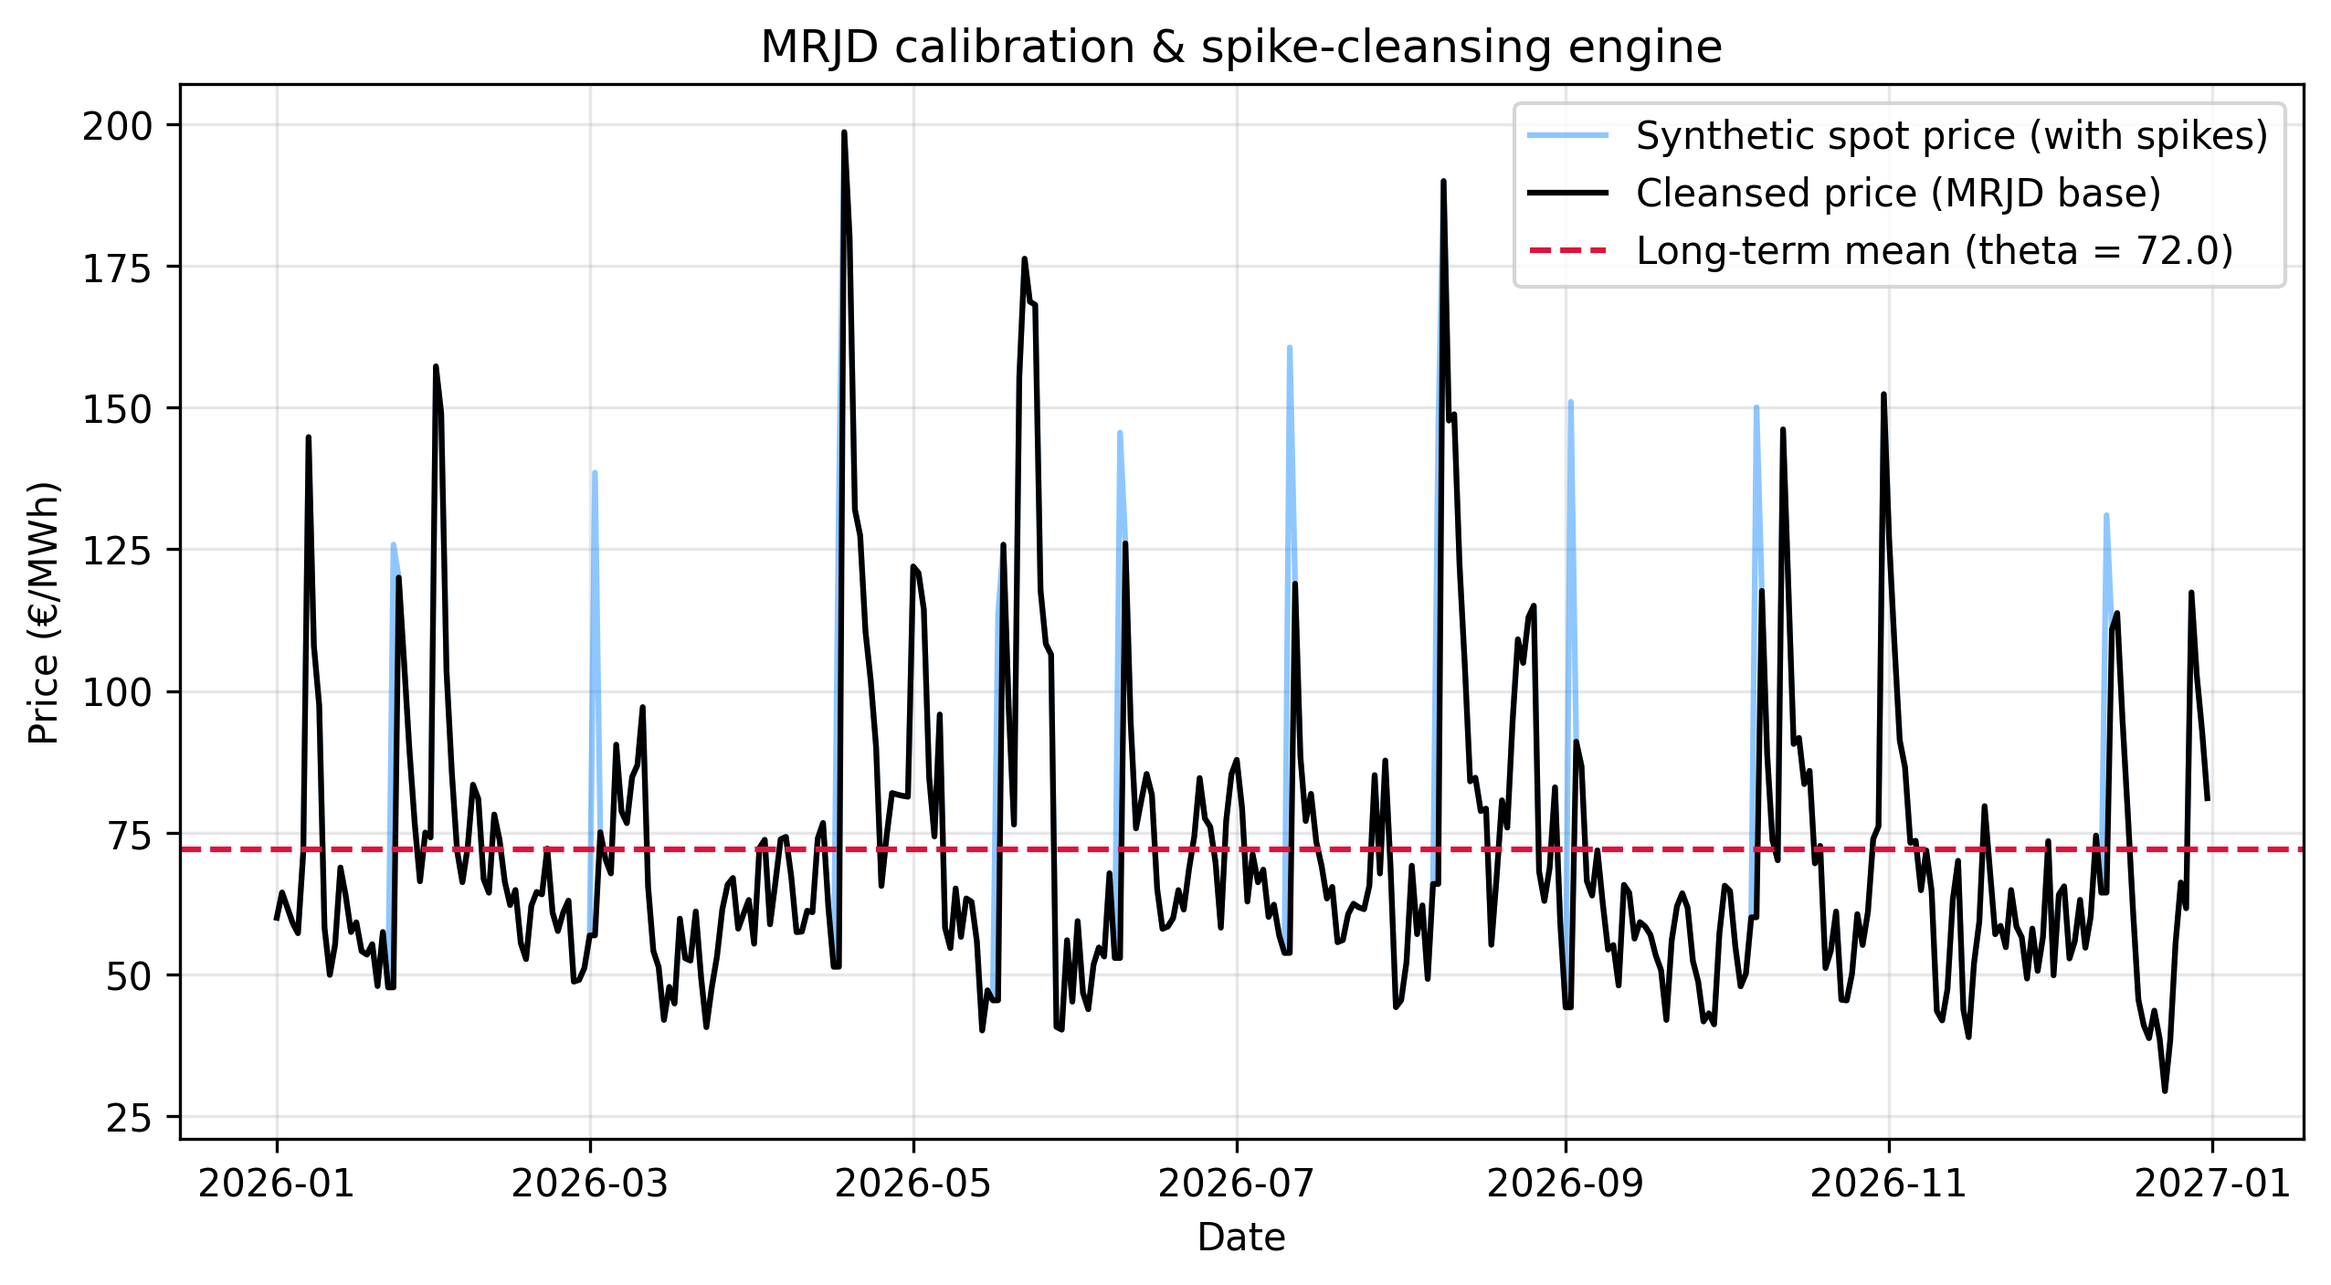
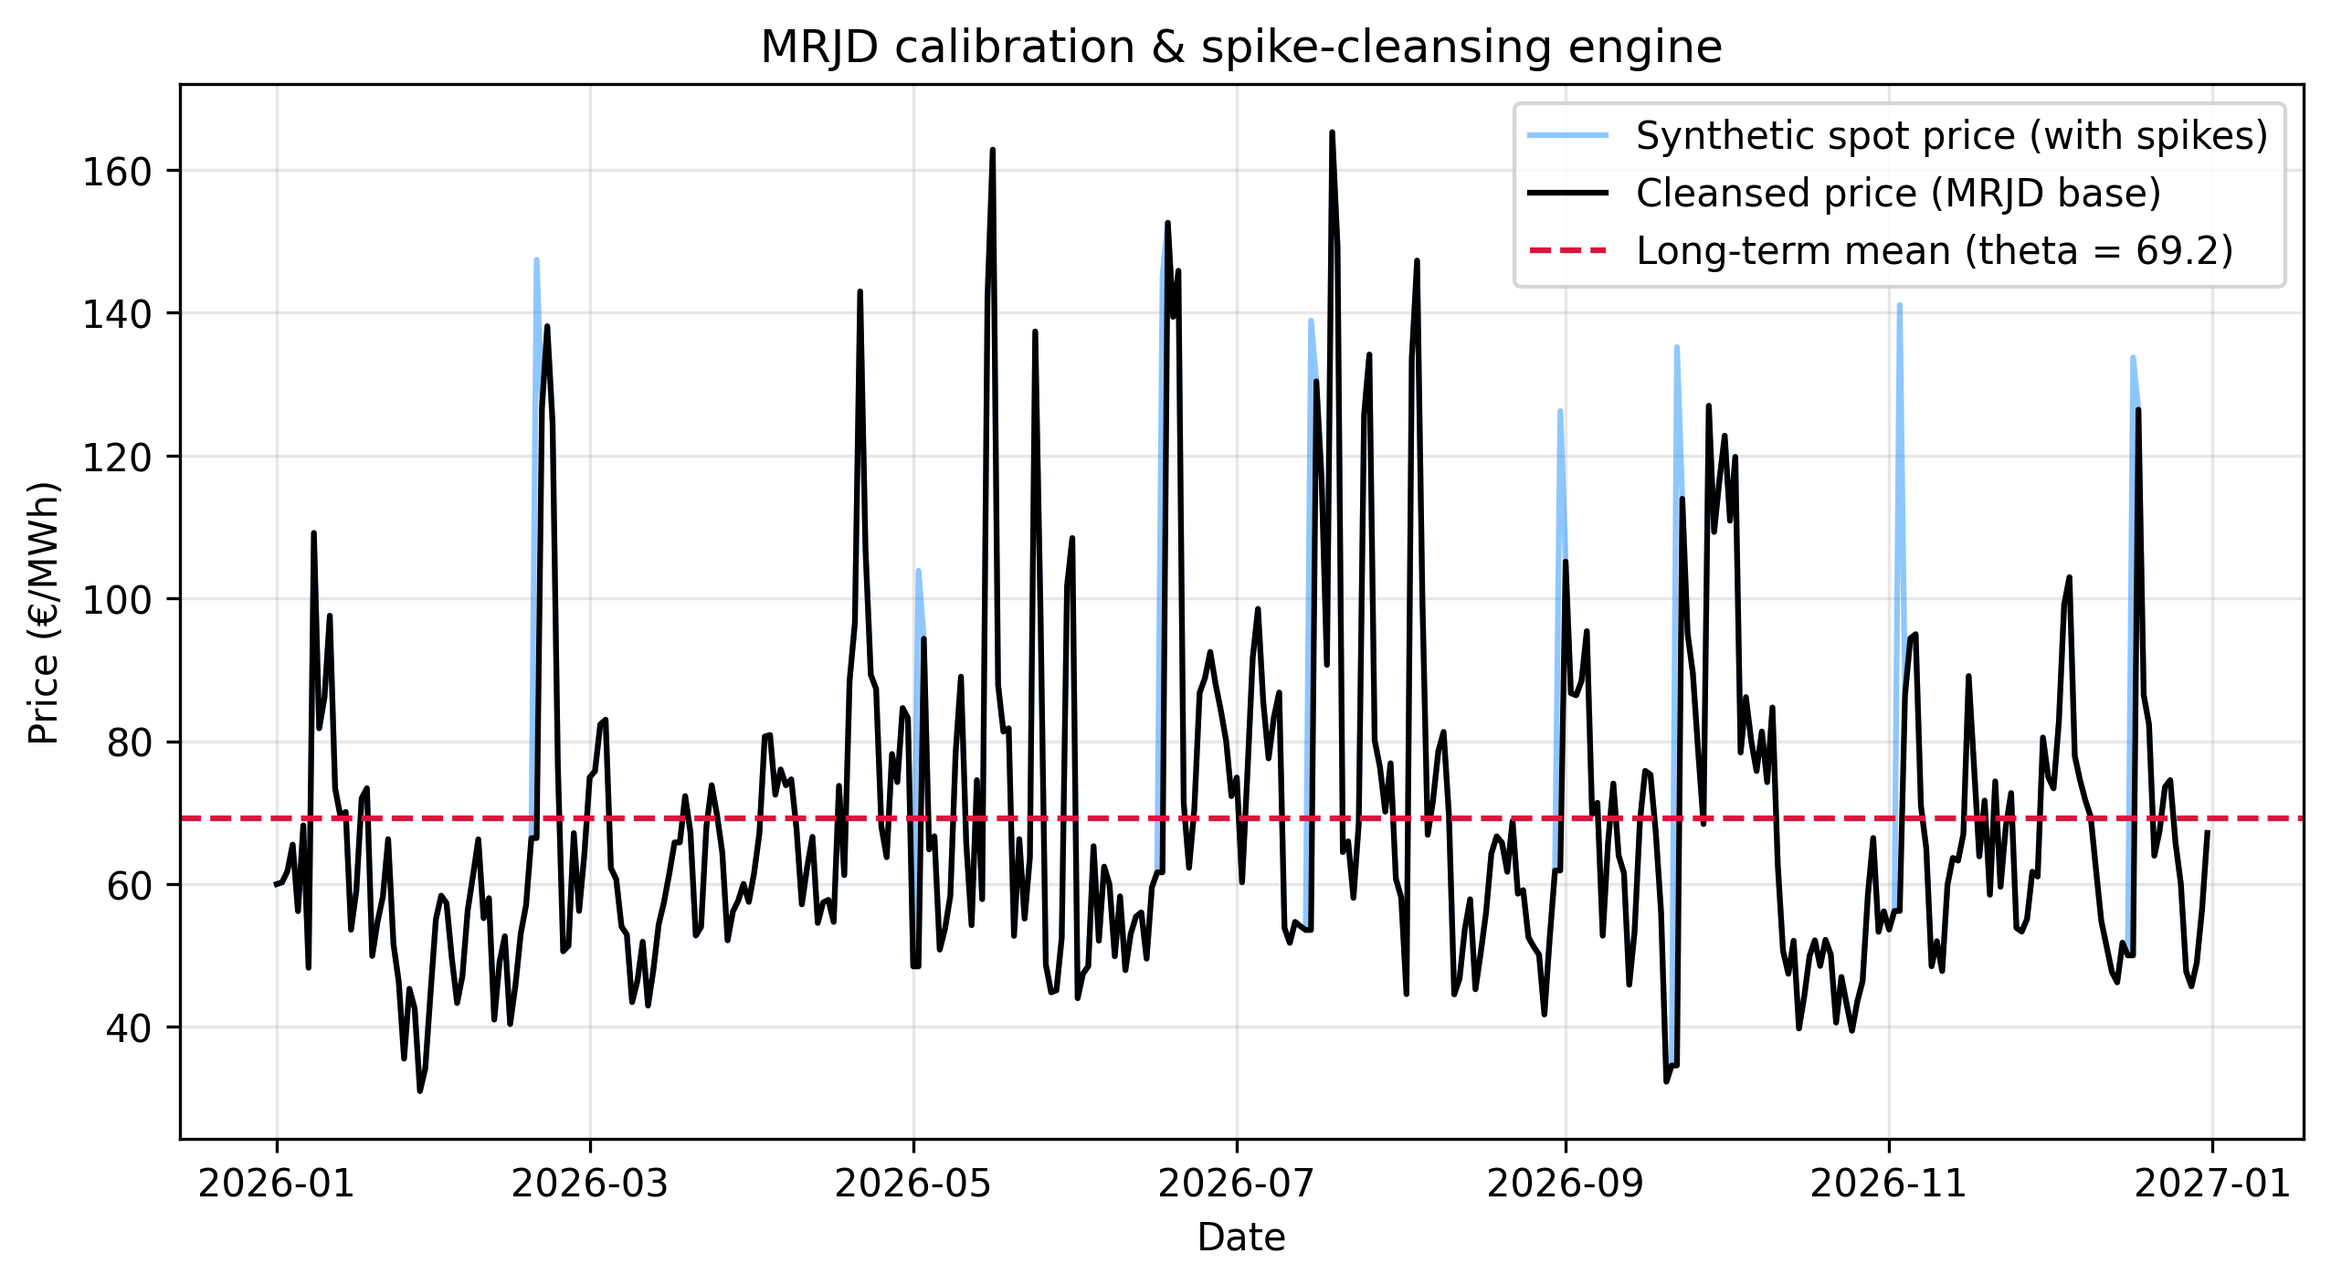
feat: no-arbitrage forward curve builder (cascade, seasonality, peak/off-peak)

diff --git a/src/forward_curve.py b/src/forward_curve.py
@@ -1,0 +1,244 @@
+"""
+forward_curve.py
+
+Build a monthly power forward curve from quoted market products using a
+no-arbitrage cascade, then split it into peak / off-peak.
+
+Why this exists
+---------------
+A power desk does not trade the spot — it trades forwards (months, quarters,
+calendar years). Those products are quoted at different granularities and must
+be mutually consistent by no-arbitrage: the (time-weighted) average of the
+finer contracts inside a period must equal the price of the coarser contract
+covering that period.
+
+    Cal-2026  =  average(Q1, Q2, Q3, Q4)      (weighted by days)
+    Q1-2026   =  average(Jan, Feb, Mar)        (weighted by days)
+
+This module takes quoted Months (front), Quarters, and the Calendar year and
+"cascades" them down to a full 12-month curve:
+  * directly quoted months are used as-is;
+  * an unquoted month inside a quoted quarter is backed out by no-arbitrage;
+  * a quarter with no quoted months is shaped into months by a seasonal profile,
+    constrained so the months average back to the quarter quote;
+  * the Cal quote is used as an independent no-arbitrage consistency check.
+
+Finally each monthly baseload price is split into peak and off-peak legs, kept
+consistent so the hour-weighted average returns the baseload.
+
+The resulting curve is the term structure the spot model should be anchored to:
+the flat long-term mean theta becomes a time-varying theta(t) = forward(t).
+"""
+
+import numpy as np
+import pandas as pd
+import matplotlib.pyplot as plt
+
+
+# =============================================================================
+# Market quotes (illustrative but realistic Cal-2026 baseload, EUR/MWh)
+# =============================================================================
+DELIVERY_YEAR = 2026
+
+QUOTES = {
+    "cal":      {"Cal-26": 82.0},
+    "quarters": {"Q1": 104.0, "Q2": 67.0, "Q3": 73.0, "Q4": 89.0},
+    "months":   {1: 112.0, 2: 103.0},          # front months quoted directly (Jan, Feb)
+}
+
+# Seasonal shape prior (winter-heavy, mild summer bump). Only used to distribute
+# quarters that have no directly quoted months; the cascade still forces the
+# quarter average to match the quote exactly, so the shape sets form, not level.
+SEASONAL_SHAPE = np.array([1.22, 1.16, 1.05, 0.92, 0.86, 0.88,
+                           0.95, 0.93, 0.94, 1.02, 1.10, 1.18])
+
+# Peak premium over baseload by month (higher in winter evenings)
+PEAK_PREMIUM = np.array([0.26, 0.24, 0.20, 0.15, 0.12, 0.12,
+                         0.14, 0.14, 0.16, 0.19, 0.23, 0.25])
+
+QUARTER_MONTHS = {"Q1": [1, 2, 3], "Q2": [4, 5, 6], "Q3": [7, 8, 9], "Q4": [10, 11, 12]}
+
+
+# =============================================================================
+# Calendar helpers
+# =============================================================================
+def month_days(year: int) -> np.ndarray:
+    """Number of calendar days in each month of `year` (length 12)."""
+    return np.array([(pd.Timestamp(year, m, 1) + pd.offsets.MonthEnd(0)).day
+                     for m in range(1, 13)])
+
+def month_business_days(year: int) -> np.ndarray:
+    """Business days per month (proxy for peak-day count)."""
+    out = []
+    for m in range(1, 13):
+        start = pd.Timestamp(year, m, 1)
+        end = start + pd.offsets.MonthEnd(0)
+        out.append(int(np.busday_count(start.date(), (end + pd.Timedelta(days=1)).date())))
+    return np.array(out)
+
+
+# =============================================================================
+# 1. No-arbitrage cascade  ->  monthly baseload curve
+# =============================================================================
+def build_baseload_curve(year: int = DELIVERY_YEAR) -> pd.DataFrame:
+    days = month_days(year)                       # weights for time-averaging
+    shape = SEASONAL_SHAPE / SEASONAL_SHAPE.mean()
+    fwd = np.full(12, np.nan)                      # monthly baseload forward
+
+    quoted_months = QUOTES["months"]
+    for m, price in quoted_months.items():
+        fwd[m - 1] = price                        # (a) use quoted months directly
+
+    # (b)+(c) cascade each quarter into its months, enforcing the quarter average
+    for q, price in QUOTES["quarters"].items():
+        months = QUARTER_MONTHS[q]
+        idx = [m - 1 for m in months]
+        w = days[idx]
+        W = w.sum()
+        fixed = [i for i in idx if not np.isnan(fwd[i])]
+        free = [i for i in idx if np.isnan(fwd[i])]
+
+        s_fixed = sum(days[i] * fwd[i] for i in fixed)
+        if not free:
+            # fully determined by quoted months: verify consistency, don't overwrite
+            implied_q = s_fixed / W
+            if abs(implied_q - price) > 1e-6:
+                print(f"  [warn] {q}: quoted months imply {implied_q:.2f} vs quote {price:.2f}")
+            continue
+        # solve common scalar k so that shape-distributed free months + fixed months
+        # average (day-weighted) to the quarter quote
+        s_free_shape = sum(days[i] * shape[i] for i in free)
+        k = (price * W - s_fixed) / s_free_shape
+        for i in free:
+            fwd[i] = k * shape[i]
+
+    # (d) no-arbitrage consistency check against the quoted Cal
+    cal_quote = list(QUOTES["cal"].values())[0]
+    cal_implied = np.average(fwd, weights=days)
+
+    curve = pd.DataFrame({
+        "Month": [pd.Timestamp(year, m, 1).strftime("%b-%y") for m in range(1, 13)],
+        "Days": days,
+        "Baseload": fwd,
+    })
+    curve.attrs["cal_quote"] = cal_quote
+    curve.attrs["cal_implied"] = cal_implied
+    return curve
+
+
+# =============================================================================
+# 2. Peak / off-peak split (hour-weighted, no-arbitrage consistent)
+# =============================================================================
+def add_peak_offpeak(curve: pd.DataFrame, year: int = DELIVERY_YEAR) -> pd.DataFrame:
+    days = curve["Days"].values
+    total_hours = 24.0 * days
+    peak_hours = 12.0 * month_business_days(year)         # 12h peak window on business days
+    offpeak_hours = total_hours - peak_hours
+
+    baseload = curve["Baseload"].values
+    peak = baseload * (1.0 + PEAK_PREMIUM)
+    # off-peak backed out so hour-weighted average returns baseload exactly
+    offpeak = (baseload * total_hours - peak * peak_hours) / offpeak_hours
+
+    curve = curve.copy()
+    curve["Peak"] = peak
+    curve["OffPeak"] = offpeak
+    return curve
+
+
+# =============================================================================
+# 3. Daily expansion  ->  theta(t) for the spot model
+# =============================================================================
+def daily_baseload_curve(curve: pd.DataFrame, year: int = DELIVERY_YEAR) -> pd.Series:
+    """Expand the monthly baseload curve to a daily step curve (flat within month)."""
+    idx = pd.date_range(f"{year}-01-01", f"{year}-12-31", freq="D")
+    daily = pd.Series(index=idx, dtype=float)
+    for m in range(1, 13):
+        daily[daily.index.month == m] = curve["Baseload"].iloc[m - 1]
+    daily.name = "theta_t"
+    return daily
+
+
+def theta_for_month(curve: pd.DataFrame, month: int) -> float:
+    """Forward level to anchor the spot model for a given delivery month."""
+    return float(curve["Baseload"].iloc[month - 1])
+
+
+# =============================================================================
+# 4. Plot
+# =============================================================================
+def plot_curve(curve: pd.DataFrame, fname: str = "data/forward_curve.png"):
+    import os
+    os.makedirs("data", exist_ok=True)
+    NAVY, TEAL, SEA, AMBER, RED = "#12293D", "#118AB2", "#2A9D8F", "#E9A23B", "#D1495B"
+    x = np.arange(12)
+    months = curve["Month"].values
+
+    fig, ax = plt.subplots(figsize=(10, 5.2), dpi=150)
+
+    # monthly baseload
+    ax.plot(x, curve["Baseload"], color=NAVY, lw=2.4, marker="o", ms=6,
+            zorder=5, label="Monthly baseload (cascaded)")
+    # peak / off-peak
+    ax.plot(x, curve["Peak"], color=RED, lw=1.6, ls="--", marker="^", ms=4, label="Peak")
+    ax.plot(x, curve["OffPeak"], color=SEA, lw=1.6, ls="--", marker="v", ms=4, label="Off-peak")
+
+    # quarter quotes as horizontal bands
+    for q, price in QUOTES["quarters"].items():
+        idx = [m - 1 for m in QUARTER_MONTHS[q]]
+        ax.hlines(price, idx[0] - 0.35, idx[-1] + 0.35, color=AMBER, lw=3, zorder=4)
+        ax.text(np.mean(idx), price + 2.0, f"{q}={price:.0f}", color="#B87A16",
+                fontsize=9.5, fontweight="bold", ha="center")
+    ax.plot([], [], color=AMBER, lw=3, label="Quarter quotes")
+
+    # cal check
+    cal_q = curve.attrs["cal_quote"]; cal_i = curve.attrs["cal_implied"]
+    ax.axhline(cal_q, color=TEAL, lw=1.3, ls=":", zorder=3)
+    ax.text(11.4, cal_q + 1.2, f"Cal quote={cal_q:.0f}\nimplied={cal_i:.1f}",
+            color=TEAL, fontsize=9, ha="right", fontweight="bold")
+
+    ax.set_xticks(x); ax.set_xticklabels(months, rotation=45, ha="right")
+    ax.set_ylabel("Forward price (\u20ac/MWh)"); ax.set_xlabel("Delivery month")
+    ax.set_title("Power forward curve \u2014 no-arbitrage cascade with seasonality & peak/off-peak",
+                 fontsize=12, fontweight="bold", color=NAVY, loc="left")
+    ax.grid(True, alpha=0.25)
+    for s in ["top", "right"]:
+        ax.spines[s].set_visible(False)
+    ax.legend(frameon=False, fontsize=9.5, ncol=2, loc="upper center")
+    fig.tight_layout()
+    fig.savefig(fname, dpi=150, bbox_inches="tight", facecolor="white")
+    plt.close(fig)
+    return fname
+
+
+# =============================================================================
+# Main
+# =============================================================================
+def main():
+    print("================ POWER FORWARD CURVE BUILDER ================")
+    print("Cascading quoted products (Cal -> Quarters -> Months), no-arbitrage...\n")
+
+    curve = build_baseload_curve()
+    curve = add_peak_offpeak(curve)
+
+    with pd.option_context("display.float_format", lambda v: f"{v:7.2f}"):
+        print(curve.to_string(index=False))
+
+    cal_q = curve.attrs["cal_quote"]; cal_i = curve.attrs["cal_implied"]
+    print(f"\nNo-arbitrage check  |  Cal quote: {cal_q:.2f}   curve-implied Cal: {cal_i:.2f}"
+          f"   basis: {cal_i - cal_q:+.2f} EUR/MWh")
+
+    fname = plot_curve(curve)
+    print(f"Saved -> {fname}")
+
+    # ---- connection to the spot model ----
+    print("\n--- CONNECTING TO THE SPOT MODEL ---")
+    for m, label in [(1, "Jan (winter)"), (7, "Jul (summer)")]:
+        print(f"  theta(t) for {label:12s}: {theta_for_month(curve, m):6.2f} EUR/MWh")
+    print("  -> the flat long-term mean in the MRJD model becomes theta(t) = forward(t),")
+    print("     so an option or a plant is valued against the correct delivery-period level,")
+    print("     not a single global average.")
+
+
+if __name__ == "__main__":
+    main()

diff --git a/src/main.py b/src/main.py
@@ -19,6 +19,7 @@ import matplotlib.pyplot as plt
 
 from calibration import generate_synthetic_power_data, filter_spikes, calibrate_mrjd
 from risk_analysis import run_portfolio_risk_analysis
+import forward_curve
 import plant_valuation
 
 
@@ -53,13 +54,16 @@ def make_calibration_chart():
 def main():
     os.makedirs("data", exist_ok=True)
 
-    print("\n[1/3] MRJD calibration ...")
+    print("\n[1/4] MRJD calibration ...")
     make_calibration_chart()
 
-    print("\n[2/3] Portfolio tail risk (VaR / CVaR) ...")
+    print("\n[2/4] Forward curve construction ...")
+    forward_curve.main()
+
+    print("\n[3/4] Portfolio tail risk (VaR / CVaR) ...")
     run_portfolio_risk_analysis()
 
-    print("\n[3/3] Weather-driven plant valuation ...")
+    print("\n[4/4] Weather-driven plant valuation ...")
     plant_valuation.main()
 
     print("\n[DONE] All charts regenerated in data/.")

diff --git a/src/calibration.py b/src/calibration.py
@@ -1,7 +1,10 @@
 import numpy as np
 import pandas as pd
 
-def generate_synthetic_power_data(days=365, seed=42):
+def generate_synthetic_power_data(days=365, seed=None):
+    ...
+    if seed is not None:
+        np.random.seed(seed)
     """
     Simulates a historical Spot Power price series exhibiting Mean Reversion,
     Standard Diffusion, and Poisson Jumps (MRJD).

diff --git a/README.md b/README.md
@@ -23,6 +23,8 @@ jumps with an endogenous, weather-driven merit-order mechanism to value physical
 - **Monte Carlo engine** — a vectorised simulator running tens of thousands of independent paths.
 - **Asian option pricing** — path-dependent power derivatives settled on the arithmetic price average.
 - **Tail-risk analysis** — 95% Value at Risk (VaR) and 95% Expected Shortfall (CVaR).
+- **Forward curve construction** — a no-arbitrage cascade from quoted months, quarters, and the
+  calendar year down to a monthly curve, with seasonality and a peak / off-peak split.
 - **Structural weather-to-price model** — power prices emerge from the merit order as weather drives
   residual load; spikes are endogenous, not assumed.
 - **Switching real-option valuation** — a CCGT is valued as a two-state (ON/OFF) switching option
@@ -64,6 +66,29 @@ of the power portfolio:
 
 ---
 
+## Forward curve construction
+
+A power desk trades forwards, not the spot. Quoted products (front months, quarters, the calendar
+year) must be mutually consistent by no-arbitrage: the time-weighted average of the finer contracts
+inside a period equals the price of the coarser contract covering it.
+
+$$\text{Cal-26} = \operatorname{avg}(Q_1,Q_2,Q_3,Q_4), \qquad Q_1 = \operatorname{avg}(\text{Jan},\text{Feb},\text{Mar})$$
+
+`forward_curve.py` cascades the quotes down to a full monthly curve: directly quoted months are used
+as-is, an unquoted month inside a quoted quarter is backed out by no-arbitrage, and a quarter with no
+quoted months is shaped into months by a seasonal profile constrained to average back to the quarter
+quote. The standalone Cal quote is then used as an independent consistency check — the residual
+between the quoted Cal and the strip-implied Cal is the calendar basis. Each monthly baseload price is
+finally split into peak and off-peak legs that hour-weight back to the baseload.
+
+This term structure is what the spot model should be anchored to: the flat long-term mean $\theta$
+becomes a time-varying $\theta(t) = \text{forward}(t)$, so an option or a plant is valued against the
+correct delivery-period level rather than a single global average.
+
+![Forward curve](data/forward_curve.png)
+
+---
+
 ## Weather-driven structural pricing and plant valuation
 
 Rather than assuming an exogenous jump process, `plant_valuation.py` builds power prices from the
@@ -102,11 +127,13 @@ energy-quant-trading/
 ├── .gitignore
 ├── data/
 │   ├── calibration_results.png   # MRJD fit & spike cleansing
+│   ├── forward_curve.png         # no-arbitrage forward curve (seasonality, peak/off-peak)
 │   ├── risk_profile.png          # VaR / CVaR distribution
 │   └── weather_dispatch.png      # weather -> price -> dispatch (structural model)
 └── src/
     ├── calibration.py            # MRJD data, spike cleansing, OLS / Euler–Maruyama calibration
     ├── pricing.py                # Monte Carlo engine + Asian options
+    ├── forward_curve.py          # no-arbitrage cascade: months/quarters/cal -> monthly curve
     ├── risk_analysis.py          # VaR / CVaR tail metrics
     ├── plant_valuation.py        # weather-driven merit order + switching LSM valuation
     └── main.py                   # single entry point: runs everything, regenerates all charts
@@ -141,6 +168,7 @@ Each module can also be run on its own:
 
 ```bash
 python src/calibration.py       # estimate κ, θ, σ and jump parameters
+python src/forward_curve.py     # build the no-arbitrage forward curve
 python src/risk_analysis.py     # Monte Carlo + VaR / CVaR
 python src/plant_valuation.py   # weather-driven pricing + switching valuation
 ```
